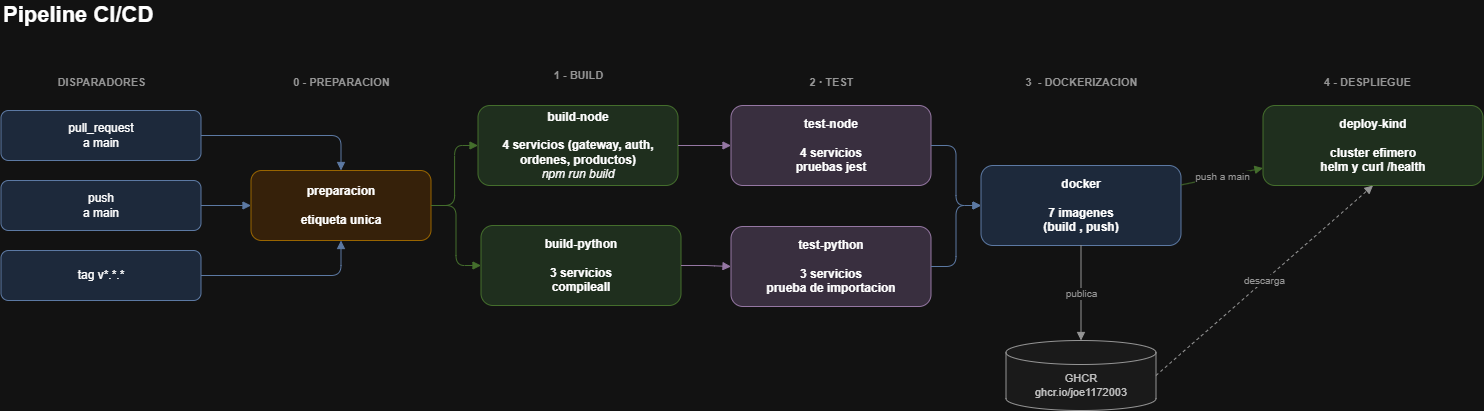
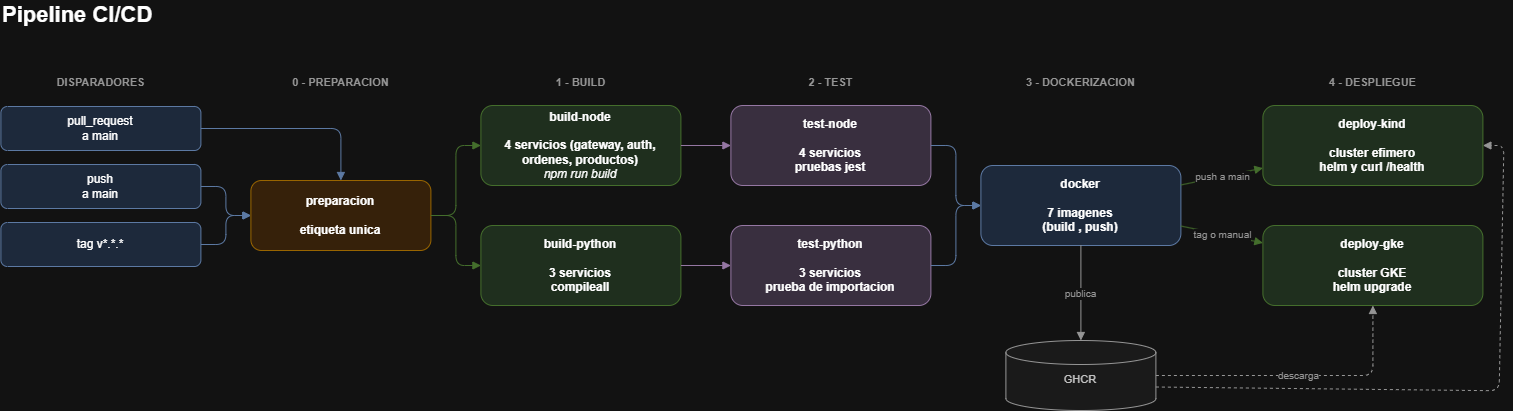
feat: documentation and health de gateway test cd

diff --git a/P4/backend-ts/gateway/src/health/health.controller.ts b/P4/backend-ts/gateway/src/health/health.controller.ts
@@ -7,6 +7,7 @@ export class HealthController {
     return {
       estado: 'ok',
       servicio: 'api-gateway',
+      version: 'p7-cicd',
       hora: new Date().toISOString(),
     };
   }

diff --git a/P7/README.md b/P7/README.md
@@ -29,10 +29,15 @@ No todo corre siempre. El evento decide hasta dónde llega el pipeline:
 |---|:--:|:--:|:--:|:--:|
 | Pull request a `main` | sí | sí | no | no |
 | Push a `main` | sí | sí | sí | kind |
-| Tag `v*.*.*` | sí | sí | sí |  |
+| Tag `v*.*.*` | sí | sí | sí | GKE |
+| Botón *Run workflow* | sí | sí | sí | GKE |
 
 Un Pull Request se valida pero no publica nada. Esa es la diferencia que evita
 ensuciar el registro con imágenes de código que todavía nadie revisó.
+
+El GKE no se despliega en cada push porque cobra por hora de nodo encendido.
+Llega a producción solo cuando yo lo decido: con un tag de versión o con el
+botón manual.
 
 ## Etapa 0: preparación
 
@@ -66,13 +71,16 @@ Cada test espera a su build. No tiene sentido probar código que ni compila.
 ## Etapa 3: dockerización
 
 7 líneas en paralelo, una por imagen. Cada una construye desde su propia
-carpeta y publica en Git hub Container Registry (GHCR) con varias etiquetas a la vez: la del commit,
-`latest`, y las de versión si el disparador fue un tag.
+carpeta y publica en GitHub Container Registry (GHCR) con varias etiquetas a la vez: la del commit, `latest`, y las de versión si el disparador fue un tag.
 
 Todas las etiquetas apuntan a la misma imagen. El despliegue usa la del
 commit, que no cambia nunca; `latest` queda solo como comodidad.
 
 ## Etapa 4: despliegue
+
+Hay dos destinos y el evento elige cuál.
+
+### kind, en cada push a main
 
 `deploy-kind` levanta un clúster de Kubernetes desechable dentro del propio
 runner, instala el Ingress Controller, baja las 7 imágenes de GHCR y las
@@ -87,10 +95,65 @@ Este job no usa ningún secreto. Las credenciales del clúster desechable se
 generan al vuelo con `openssl`, así que no puede fallar por configuración
 faltante.
 
-`deploy-gke` apunta al clúster real de la Practica 6 y corre solo con un tag de
-versión o desde el botón manual. Quedó configurado pero sin ejecutar: la
-cuenta de Google que administra mi proyecto fue suspendida durante el
-desarrollo de la práctica, y la apelación sigue en revisión.
+### GKE, con un tag o a mano
+
+`deploy-gke` actualiza el clúster real de la Practica 6. No reinstala nada:
+hace `helm upgrade` sobre el mismo release `sa-p6`, así Postgres y RabbitMQ
+conservan sus discos y sus datos.
+
+1. Se autentica en GCP con la llave de una service account.
+2. Si el node pool está en 0 (lo apago cuando no lo uso), lo sube a 2 nodos.
+3. Arma el archivo de secretos para Helm en una carpeta temporal del runner,
+   fuera del repositorio.
+4. Corre `helm upgrade` con los mismos valores de la Practica 6 más
+   [`values-gke.yaml`](values-gke.yaml), que solo cambia el origen de las
+   imágenes: antes Artifact Registry, ahora GHCR.
+5. Borra el archivo de secretos, aunque el despliegue haya fallado.
+6. Verifica con `rollout status` del gateway y un `curl` a la IP pública.
+
+El comando no lleva `-n sa-p5`. En la Practica 6 instalé el release sin ese flag y quedó registrado en el namespace `default`, si el pipeline buscara en
+`sa-p5`, Helm no lo encontraría e intentaría instalar de cero encima de lo
+que ya corre.
+
+Tiene una casilla opcional para escalar los nodos a 0 al terminar. Ese paso
+corre aunque algo falle antes, así un despliegue roto no me deja un clúster
+encendido cobrando.
+
+## Credenciales
+
+El workflow no tiene ninguna credencial escrita. Publicar en GHCR usa el
+`GITHUB_TOKEN` que GitHub genera en cada corrida, y kind no necesita nada.
+Solo el GKE usa dos secretos del repositorio:
+
+| Secreto | Qué tiene | Dónde se usa |
+|---|---|---|
+| `GCP_SA_KEY` | La llave JSON de la service account `github-actions-p7` | `google-github-actions/auth` |
+| `HELM_VALUES_SECRETOS` | Mi `values.secretos.yaml` en base64 | El paso que arma los secretos para Helm |
+
+La service account tiene un solo rol, `roles/container.admin`.
+`container.developer` sería más acotado, pero no alcanza: el chart crea Roles
+y RoleBindings, y ese rol no puede crear objetos RBAC. Tampoco podría escalar
+el node pool.
+
+`HELM_VALUES_SECRETOS` tiene que ser el mismo archivo que usé en la Practica 6. Postgres solo lee su contraseña la primera vez que inicializa el disco: con
+otra, el upgrade dejaría a auth, productos, órdenes y notificaciones sin
+acceso a la base.
+
+
+## Evidencia del despliegue en GKE
+
+El historial del release muestra quién desplegó cada versión. Las revisiones
+1 y 2 las hice a mano en la P6; la 3 la hizo el pipeline:
+
+![Helm history](./heml-history.png)
+
+
+![deployment imagenes](./deplyment-images.png)
+
+La etiqueta `sha-f33f4c4` es el commit que disparó la corrida, así que se
+puede rastrear qué código exacto está en producción. Postgres y RabbitMQ no
+se reiniciaron durante el upgrade: Kubernetes solo reemplazó los pods cuya
+imagen cambió.
 
 ## Archivos
 
